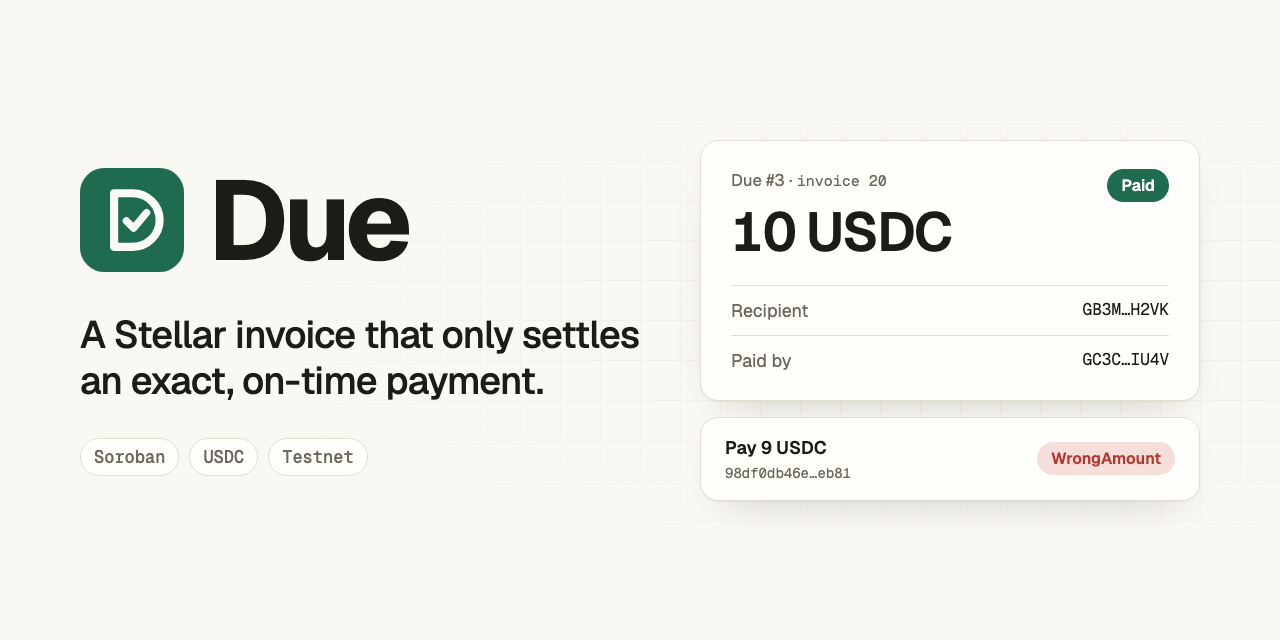
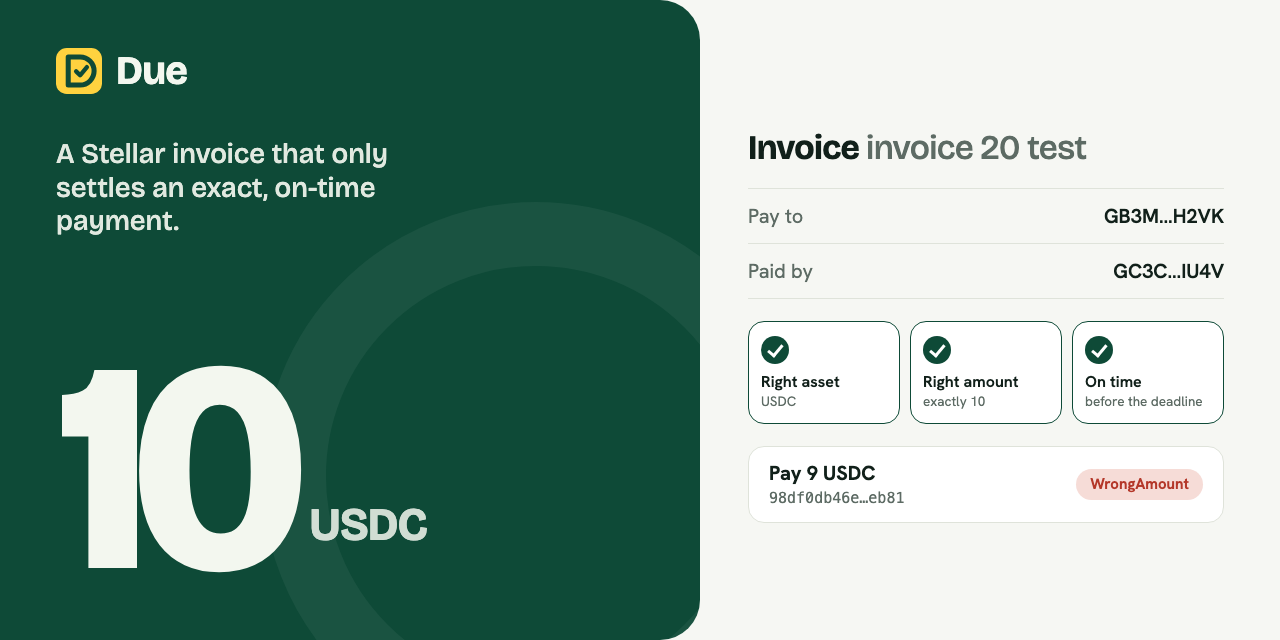
Redraw the cover and share images in the new style

diff --git a/docs/assets/cover.html b/docs/assets/cover.html
@@ -3,65 +3,52 @@
 <head>
 <meta charset="utf-8">
 <link rel="preconnect" href="https://fonts.googleapis.com">
-<link href="https://fonts.googleapis.com/css2?family=Geist:wght@400;500;600;700&family=Geist+Mono:wght@400;500&display=swap" rel="stylesheet">
+<link href="https://fonts.googleapis.com/css2?family=Bricolage+Grotesque:opsz,wght@12..96,400..800&family=Hanken+Grotesk:wght@400;500;600;700&display=swap" rel="stylesheet">
 <style>
-  :root { --bg:#faf8f2; --ink:#1c1b17; --muted:#6b685d; --line:#e3dfd2; --card:#fffefa; --green:#1f6b50; --red:#b3372d; }
+  :root { --green:#0e4a37; --ink:#11201a; --muted:#5d6b64; --paper:#f6f7f3; --line:#dfe3da; --sun:#ffd23f; --brick:#b4382a; }
   * { box-sizing: border-box; margin: 0; }
-  html, body { width: 1280px; height: 640px; background: var(--bg); color: var(--ink);
-    font-family: "Geist", "Helvetica Neue", Arial, sans-serif; overflow: hidden; }
-  .wrap { position: relative; width: 1280px; height: 640px; padding: 72px 80px; display: flex; align-items: center; justify-content: space-between; gap: 56px; }
-  .grid { position: absolute; inset: 0; background-image:
-      linear-gradient(var(--line) 1px, transparent 1px), linear-gradient(90deg, var(--line) 1px, transparent 1px);
-    background-size: 40px 40px; opacity: .45;
-    -webkit-mask-image: radial-gradient(ellipse at 75% 50%, #000 0%, transparent 70%); mask-image: radial-gradient(ellipse at 75% 50%, #000 0%, transparent 70%); }
-  .left { position: relative; width: 560px; }
-  .brand { display: flex; align-items: center; gap: 24px; }
-  .brand img { width: 104px; height: 104px; }
-  .brand span { font-size: 112px; font-weight: 700; letter-spacing: -0.045em; line-height: 1; }
-  .tag { margin-top: 36px; font-size: 38px; line-height: 1.22; font-weight: 500; letter-spacing: -0.02em; }
-  .chips { margin-top: 34px; display: flex; gap: 10px; font-family: "Geist Mono", ui-monospace, monospace; font-size: 17px; color: var(--muted); }
-  .chips b { font-weight: 500; border: 1px solid var(--line); background: var(--card); padding: 7px 13px; border-radius: 999px; }
-  .right { position: relative; width: 500px; display: flex; flex-direction: column; gap: 16px; }
-  .card { background: var(--card); border: 1px solid var(--line); border-radius: 18px; padding: 28px 30px; box-shadow: 0 1px 0 rgba(28,27,23,.04), 0 18px 40px -24px rgba(28,27,23,.25); }
-  .top { display: flex; justify-content: space-between; align-items: flex-start; }
-  .ref { font-size: 17px; color: var(--muted); }
-  .ref i { font-style: normal; font-family: "Geist Mono", ui-monospace, monospace; font-size: 15px; }
-  .amt { margin-top: 6px; font-size: 54px; font-weight: 600; letter-spacing: -0.03em; font-variant-numeric: tabular-nums; }
-  .badge { font-size: 16px; font-weight: 600; padding: 6px 14px; border-radius: 999px; }
-  .badge.ok { background: var(--green); color: #fbfaf5; }
-  .badge.no { background: #f6dedb; color: var(--red); }
-  dl { margin-top: 18px; border-top: 1px solid var(--line); }
-  .row { display: flex; justify-content: space-between; padding: 13px 0; border-bottom: 1px solid var(--line); font-size: 18px; }
-  .row:last-child { border-bottom: 0; padding-bottom: 0; }
-  .row dt { color: var(--muted); } .row dd { margin: 0; font-family: "Geist Mono", ui-monospace, monospace; font-size: 16px; }
-  .attempt { display: flex; justify-content: space-between; align-items: center; padding: 18px 24px; }
-  .attempt .l { font-size: 18px; font-weight: 600; }
-  .attempt .h { margin-top: 5px; font-family: "Geist Mono", ui-monospace, monospace; font-size: 14px; color: var(--muted); }
+  html, body { width: 1280px; height: 640px; overflow: hidden; background: var(--paper); color: var(--ink); font-family: "Hanken Grotesk", sans-serif; }
+  .wrap { display: grid; grid-template-columns: 700px 1fr; width: 1280px; height: 640px; }
+  .hero { position: relative; overflow: hidden; background: var(--green); color: #f3f7ef; padding: 48px 56px; border-radius: 0 40px 40px 0; display: flex; flex-direction: column; }
+  .hero::after { content: ""; position: absolute; right: -110px; bottom: -110px; width: 420px; height: 420px; border-radius: 50%; border: 64px solid rgba(255,255,255,.05); }
+  .brand { display: flex; align-items: center; gap: 14px; font: 700 40px/1 "Bricolage Grotesque", sans-serif; letter-spacing: -.02em; }
+  .brand img { width: 46px; height: 46px; }
+  .lede { margin-top: 44px; max-width: 360px; font: 500 28px/1.2 "Bricolage Grotesque", sans-serif; opacity: .92; }
+  .figure { margin-top: auto; display: flex; align-items: flex-end; gap: 18px; font: 800 300px/.78 "Bricolage Grotesque", sans-serif; letter-spacing: -.06em; font-variation-settings: "opsz" 96; padding-bottom: 6px; }
+  .figure small { font: 700 46px/1 "Bricolage Grotesque", sans-serif; letter-spacing: -.02em; padding-bottom: 38px; opacity: .85; }
+  .side { padding: 52px 56px 40px 48px; display: flex; flex-direction: column; justify-content: center; gap: 22px; }
+  h2 { font: 700 34px/1.1 "Bricolage Grotesque", sans-serif; letter-spacing: -.02em; } h2 span { color: var(--muted); font-weight: 500; }
+  .row { display: flex; justify-content: space-between; padding: 14px 0; border-bottom: 1px solid var(--line); font-size: 20px; }
+  .row:first-of-type { border-top: 1px solid var(--line); } .row dt { color: var(--muted); } .row dd { margin: 0; font-weight: 600; }
+  .checks { display: grid; grid-template-columns: repeat(3, 1fr); gap: 10px; }
+  .check { background: #fff; border: 1.5px solid var(--green); border-radius: 16px; padding: 14px 12px; font: 600 16px/1.2 "Hanken Grotesk"; display: grid; gap: 8px; }
+  .check i { width: 28px; height: 28px; border-radius: 50%; background: var(--green); display: grid; place-items: center; }
+  .check i::after { content: ""; width: 6px; height: 12px; border: solid #fff; border-width: 0 3px 3px 0; transform: rotate(40deg) translate(-1px,-1px); }
+  .check small { display: block; font-weight: 400; color: var(--muted); font-size: 13.5px; margin-top: 2px; }
+  .attempt { display: flex; justify-content: space-between; align-items: center; padding: 16px 20px; border: 1.5px solid var(--line); border-radius: 16px; background: #fff; }
+  .attempt b { font: 700 20px/1 "Hanken Grotesk"; } .attempt p { margin-top: 6px; font: 400 15px/1 ui-monospace, "SF Mono", monospace; color: var(--muted); }
+  .pill { font: 700 15px/1 "Hanken Grotesk"; padding: 8px 14px; border-radius: 999px; background: #f6dcd7; color: var(--brick); }
 </style>
 </head>
 <body>
 <div class="wrap">
-  <div class="grid"></div>
-  <div class="left">
-    <div class="brand"><img src="logo.svg" alt=""><span>Due</span></div>
-    <p class="tag">A Stellar invoice that only settles an exact, on-time payment.</p>
-    <div class="chips"><b>Soroban</b><b>USDC</b><b>Testnet</b></div>
+  <div class="hero">
+    <div class="brand"><img src="logo-sun.svg" alt="">Due</div>
+    <p class="lede">A Stellar invoice that only settles an exact, on-time payment.</p>
+    <div class="figure">10<small>USDC</small></div>
   </div>
-  <div class="right">
-    <div class="card">
-      <div class="top">
-        <div><div class="ref">Due #3 · <i>invoice 20</i></div><div class="amt">10 USDC</div></div>
-        <span class="badge ok">Paid</span>
-      </div>
-      <dl>
-        <div class="row"><dt>Recipient</dt><dd>GB3M…H2VK</dd></div>
-        <div class="row"><dt>Paid by</dt><dd>GC3C…IU4V</dd></div>
-      </dl>
+  <div class="side">
+    <h2>Invoice <span>invoice 20 test</span></h2>
+    <dl>
+      <div class="row"><dt>Pay to</dt><dd>GB3M…H2VK</dd></div>
+      <div class="row"><dt>Paid by</dt><dd>GC3C…IU4V</dd></div>
+    </dl>
+    <div class="checks">
+      <div class="check"><i></i><span>Right asset<small>USDC</small></span></div>
+      <div class="check"><i></i><span>Right amount<small>exactly 10</small></span></div>
+      <div class="check"><i></i><span>On time<small>before the deadline</small></span></div>
     </div>
-    <div class="card attempt">
-      <div><div class="l">Pay 9 USDC</div><div class="h">98df0db46e…eb81</div></div>
-      <span class="badge no">WrongAmount</span>
-    </div>
+    <div class="attempt"><div><b>Pay 9 USDC</b><p>98df0db46e…eb81</p></div><span class="pill">WrongAmount</span></div>
   </div>
 </div>
 </body>

diff --git a/docs/DECISIONS.md b/docs/DECISIONS.md
@@ -28,7 +28,7 @@ The build pack says Freighter first. Loading the kit's default module set pulls 
 
 ## Styling
 
-Tailwind CSS v4 with shadcn/ui on Base UI (style `base-nova`), as requested. The theme is an off-white background, near-black text and a single green accent, with light mode only. Components used: Alert, Badge, Button, Card, Separator, Skeleton, Input and Label.
+Tailwind CSS v4 with shadcn/ui on Base UI (style `base-nova`), as requested, with light mode only. Three directions were prototyped in `design/` (a carbon-copy invoice pad, an engineering drawing sheet, and a mobile-first slip) and the slip was chosen: a deep-green hero with the amount as the largest thing on the page, a yellow pay button, and three checks (asset, amount, time) that tick when a due is paid. Type is Bricolage Grotesque for display and Hanken Grotesk for text. The page uses shadcn's Alert, Button and Skeleton. The other direction files stay in `design/` for reference and are not deployed.
 
 ## Seeded dues
 
